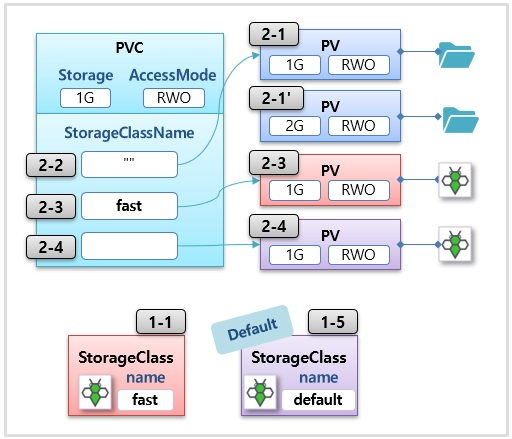
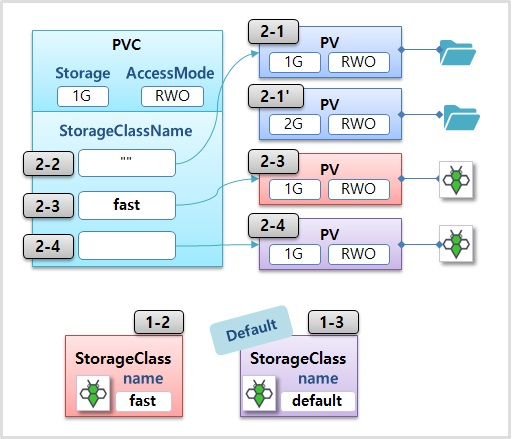
1

diff --git a/css/main.min.eb65ee0dac548aa7f699f2286e6c4195cce40c7bebc7a41d40df6795594ea13a.css b/css/main.min.eb65ee0dac548aa7f699f2286e6c4195cce40c7bebc7a41d40df6795594ea13a.css
@@ -1,0 +1,1 @@
+/*! HTML5 Boilerplate v7.1.0 | MIT License | https://html5boilerplate.com/ */html{color:#222;font-size:1em;line-height:1.4}::-moz-selection{background:#b3d4fc;text-shadow:none}::selection{background:#b3d4fc;text-shadow:none}hr{display:block;height:1px;border:0;border-top:1px solid #ccc;margin:1em 0;padding:0}audio,canvas,iframe,img,svg,video{max-width:100%;vertical-align:middle}fieldset{border:0;margin:0;padding:0}textarea{resize:vertical}.browserupgrade{margin:0.2em 0;background:#ccc;color:#000;padding:0.2em 0}body{background:#ffffff;margin-top:3.5em;max-width:100vw;-ms-overflow-style:scrollbar}*,*:before,*:after{-moz-box-sizing:border-box;-webkit-box-sizing:border-box;box-sizing:border-box}body,input,select,textarea{color:#333333;font-family:"Source Sans Pro", Helvetica, sans-serif;line-height:1.75em}a{border-bottom:dotted 1px rgba(160,160,160,0.65);color:inherit;text-decoration:none;-webkit-transition:color .2s ease, border-bottom-color 0.2s ease;-moz-transition:color .2s ease, border-bottom-color 0.2s ease;-ms-transition:color .2s ease, border-bottom-color 0.2s ease;-o-transition:color .2s ease, border-bottom-color 0.2s ease;transition:color .2s ease, border-bottom-color 0.2s ease}a:before{-webkit-transition:color ease;-moz-transition:color ease;-ms-transition:color ease;-o-transition:color ease;transition:color ease}a:hover{border-bottom-color:transparent;color:#3371e3}h1,h2,h3,h4,h5,h6{color:#3c3b3b;font-family:"Raleway", Helvetica, sans-serif;letter-spacing:0.25em;line-height:1.65;text-transform:capitalize}h1 a,h2 a,h3 a,h4 a,h5 a,h6 a{border-bottom:0}blockquote{border-left:solid 4px rgba(160,160,160,0.3);font-style:italic;margin:0 2em;padding:0.5em 0 0.5em 2em}blockquote p{margin-bottom:0}code{border:solid 1px rgba(160,160,160,0.3);font-family:"Courier New", monospace;font-size:0.9em;margin:0 0.25em;line-height:140%;padding:0.25em 0.65em;overflow-x:auto}code::-webkit-scrollbar{height:.25em}code::-webkit-scrollbar-track{-webkit-box-shadow:inset 0 0 6px rgba(0,0,0,0.3)}code::-webkit-scrollbar-thumb{background-color:darkgrey;outline:1px solid slategrey}pre{display:table;font-family:"Courier New", monospace;font-size:0.9em;table-layout:fixed;width:100%}pre code{display:block;padding:1em 1.5em;overflow-x:auto}hr{border:0;border-bottom:solid 1px rgba(160,160,160,0.3);margin:2em 0}input[type="submit"],input[type="reset"],input[type="button"],.button{background-color:transparent;border:solid 1px rgba(160,160,160,0.3);color:#3c3b3b;cursor:pointer;display:inline-block;font-family:"Raleway", Helvetica, sans-serif;font-size:0.6em;font-weight:800;height:4.8125em;letter-spacing:0.25em;line-height:4.8125em;margin:auto;padding:0 2em;-moz-transition:background-color 0.2s ease, border 0.2s ease, color 0.2s ease;-webkit-transition:background-color 0.2s ease, border 0.2s ease, color 0.2s ease;-ms-transition:background-color 0.2s ease, border 0.2s ease, color 0.2s ease;transition:background-color 0.2s ease, border 0.2s ease, color 0.2s ease;text-align:center;text-transform:uppercase;width:fit-content}input[type="submit"]:hover,input[type="reset"]:hover,input[type="button"]:hover,.button:hover{border:solid 1px #3371e3;color:#3371e3 !important}input[type="submit"]:hover:active,input[type="reset"]:hover:active,input[type="button"]:hover:active,.button:hover:active{background-color:rgba(46,186,174,0.05)}label{color:#3c3b3b;display:block;font-size:0.9em;font-weight:700}input,select,textarea{background:rgba(160,160,160,0.075);border:solid 1px rgba(160,160,160,0.3);outline:0;margin:.25em 0;padding:0 1em;width:100%}input:hover,select:hover,textarea:hover{border-color:#3371e3;-webkit-transition:border-color 0.3s ease-in-out;-moz-transition:border-color 0.3s ease-in-out;-ms-transition:border-color 0.3s ease-in-out;-o-transition:border-color 0.3s ease-in-out;transition:border-color 0.3s ease-in-out}input:focus,input:active,select:focus,select:active,textarea:focus,textarea:active{border:solid 1px #3371e3}input,select{height:2.75em}textarea{height:5em}::-webkit-input-placeholder,:-moz-placeholder,::-moz-placeholder,:-ms-input-placeholder,.formerize-placeholder{color:#aaaaaa;opacity:1.0}table{background-color:#fff;-webkit-box-shadow:0 3px 6px rgba(0,0,0,0.16),0 3px 6px rgba(0,0,0,0.23);-moz-box-shadow:0 3px 6px rgba(0,0,0,0.16),0 3px 6px rgba(0,0,0,0.23);-ms-box-shadow:0 3px 6px rgba(0,0,0,0.16),0 3px 6px rgba(0,0,0,0.23);-o-box-shadow:0 3px 6px rgba(0,0,0,0.16),0 3px 6px rgba(0,0,0,0.23);box-shadow:0 3px 6px rgba(0,0,0,0.16),0 3px 6px rgba(0,0,0,0.23);margin:1em auto;-webkit-transition:all 0.5s ease;-moz-transition:all 0.5s ease;-ms-transition:all 0.5s ease;-o-transition:all 0.5s ease;transition:all 0.5s ease;width:75%}@media (min-width: 768px){table{width:90%}}table>thead{display:none}@media (min-width: 768px){table>thead{background-color:#ececec;display:table-header-group}}table>tbody>tr{border-bottom:1px solid #e0e0e0}@media (min-width: 768px){table>tbody>tr:nth-child(even){background-color:#f4f4f4}table>tbody>tr:hover{background-color:rgba(46,187,170,0.5)}}table>tbody>tr>td{display:block;text-align:right}@media (min-width: 768px){table>tbody>tr>td{display:table-cell;text-align:center}}table>tbody>tr>td[data-header]:before{color:#757575;content:attr(data-header);float:left;font-size:inherit;font-weight:bold}@media (min-width: 768px){table>tbody>tr>td[data-header]:before{display:none}}table>tbody>tr>td:first-child{background-color:#ececec;font-weight:bold;text-align:left}@media (min-width: 768px){table>tbody>tr>td:first-child{background-color:unset;text-align:center}}table>tbody>tr>td:first-child:after{content:"\f078";float:right;font-family:"Font Awesome 5 Free";font-weight:900;text-decoration:inherit;transition:all .3s}@media (min-width: 768px){table>tbody>tr>td:first-child:after{display:none}}table>tbody>tr>td:not(:first-child){border-bottom:1px solid #e0e0e0;opacity:0;position:absolute;-moz-transition:none;-ms-transition:none;-o-transition:none;-webkit-transition:none;transition:none;z-index:-1}@media (min-width: 768px){table>tbody>tr>td:not(:first-child){border:0;opacity:100;position:relative;z-index:0}}table>tbody>tr.active>td:first-child:after{transform:rotateX(180deg)}table>tbody>tr.active>td:not(:first-child){opacity:1;position:relative;-webkit-transition:all 0.3s ease;-moz-transition:all 0.3s ease;-ms-transition:all 0.3s ease;-o-transition:all 0.3s ease;transition:all 0.3s ease;z-index:auto}table>tbody>tr.active>td:last-child{border-bottom:0}table>tfoot{display:none}@media (min-width: 768px){table>tfoot{display:table-footer-group}}table>thead>tr>th,table>tbody>tr>th,table>tfoot>tr>th,table>thead>tr>td,table>tbody>tr>td,table>tfoot>tr>td{border:0;padding:0.5em}.g-recaptcha{margin:-0.25em 0 0.25em 0}.fancybox{background:#fff;-webkit-box-shadow:0 3px 6px rgba(0,0,0,0.16),0 3px 6px rgba(0,0,0,0.23);-moz-box-shadow:0 3px 6px rgba(0,0,0,0.16),0 3px 6px rgba(0,0,0,0.23);-ms-box-shadow:0 3px 6px rgba(0,0,0,0.16),0 3px 6px rgba(0,0,0,0.23);-o-box-shadow:0 3px 6px rgba(0,0,0,0.16),0 3px 6px rgba(0,0,0,0.23);box-shadow:0 3px 6px rgba(0,0,0,0.16),0 3px 6px rgba(0,0,0,0.23);margin:10px auto;max-width:85%;padding:.5em .5em 0 .5em;width:fit-content}.fancybox a{border:0}.fancybox img{max-width:100%}.fancybox .caption{color:#777;font-size:0.8em;font-style:italic;text-align:center}.post-comment{position:relative;margin:2.5em 0;font-size:.8em}.post-comment.post-comment-reply{margin-left:2em}.post-comment.post-comment-reply .post-comment-author::after{font-family:'Font Awesome 5 Free';content:'\f064';margin:0 0.3em;display:inline-block;vertical-align:middle;font-weight:900}.post-comment .post-comment-avatar{float:left;width:3.25em;height:3.25em;margin:0 1em 0 0}.post-comment .post-comment-author-container{margin-bottom:-0.5em}.post-comment .post-comment-author-container .post-comment-author{display:inline-block;margin:0 0 0;font-size:1.25em;line-height:0}.post-comment .post-comment-author-container .post-comment-author a{color:inherit;text-decoration:none}.post-comment .post-comment-timestamp{font-size:.8em}.post-comment .post-comment-timestamp a{color:inherit;text-decoration:none}.post-comment .post-comment-content{margin:1.5em 0 0 4.25em}.post-comment .post-comment-content>figure,.post-comment .post-comment-content>ol,.post-comment .post-comment-content>p,.post-comment .post-comment-content>table,.post-comment .post-comment-content>ul{margin-bottom:1.5em}.post-comment .post-comment-reply-btn-container{margin:1.5em 0 1.5em 4.25em}.post-comment .post-comment-reply-btn-container .post-comment-reply-btn{font-size:.6rem}.post-comment .post-comment-reply-btn-container .post-comment-reply-btn::before{font-family:'Font Awesome 5 Free';content:'\f3e5';margin:0 0.6em 0 0;display:inline-block;vertical-align:middle;font-weight:900}.post-new-comment.loading{opacity:0.5}.post-new-comment .post-reply-notice .post-comment-avatar{width:2em;height:2em;margin:0 .6em}.post-new-comment .post-reply-notice .post-reply-close-btn{margin:0 .5em;padding:unset;border:none;vertical-align:middle}.post-new-comment .post-reply-notice .post-reply-close-btn:hover{border:none}.post-new-comment .post-reply-notice .post-reply-close-btn:after{content:'\2716'}.post-new-comment .post-reply-notice .post-reply-arrow::after{font-family:'Font Awesome 5 Free';content:'\f064';display:inline-block;vertical-align:middle;font-weight:900}.post-new-comment .post-reply-notice .post-reply-name{vertical-align:middle}.post-new-comment .g-recaptcha{margin:0 0 0.25em}.post-new-comment .button{margin:0.25em 0}.button{margin:2.25em 0em;background-color:#333333;border:solid 1px rgba(160,160,160,0.3);color:#ffffff;cursor:pointer;display:inline-block;font-family:"Raleway", Helvetica, sans-serif;font-weight:800;-moz-transition:background-color 0.2s ease, border 0.2s ease, color 0.2s ease;-webkit-transition:background-color 0.2s ease, border 0.2s ease, color 0.2s ease;-ms-transition:background-color 0.2s ease, border 0.2s ease, color 0.2s ease;transition:background-color 0.2s ease, border 0.2s ease, color 0.2s ease;text-align:center;text-transform:uppercase;width:fit-content}.button:hover{border:solid 1px #333333;color:#3371e3 !important}.button:active{background-color:rgba(46,186,174,0.05)}.triangle{-webkit-clip-path:polygon(0 100%, 100% 100%, 50% 0);-moz-clip-path:polygon(0 100%, 100% 100%, 50% 0);-ms-clip-path:polygon(0 100%, 100% 100%, 50% 0);-o-clip-path:polygon(0 100%, 100% 100%, 50% 0);clip-path:polygon(0 100%, 100% 100%, 50% 0)}.trapezoid{-webkit-clip-path:polygon(20% 0%, 80% 0%, 100% 100%, 0% 100%);-moz-clip-path:polygon(20% 0%, 80% 0%, 100% 100%, 0% 100%);-ms-clip-path:polygon(20% 0%, 80% 0%, 100% 100%, 0% 100%);-o-clip-path:polygon(20% 0%, 80% 0%, 100% 100%, 0% 100%);clip-path:polygon(20% 0%, 80% 0%, 100% 100%, 0% 100%)}.parallelogram{-webkit-clip-path:polygon(25% 0%, 100% 0%, 75% 100%, 0% 100%);-moz-clip-path:polygon(25% 0%, 100% 0%, 75% 100%, 0% 100%);-ms-clip-path:polygon(25% 0%, 100% 0%, 75% 100%, 0% 100%);-o-clip-path:polygon(25% 0%, 100% 0%, 75% 100%, 0% 100%);clip-path:polygon(25% 0%, 100% 0%, 75% 100%, 0% 100%)}.rhombus{-webkit-clip-path:polygon(50% 0%, 100% 50%, 50% 100%, 0% 50%);-moz-clip-path:polygon(50% 0%, 100% 50%, 50% 100%, 0% 50%);-ms-clip-path:polygon(50% 0%, 100% 50%, 50% 100%, 0% 50%);-o-clip-path:polygon(50% 0%, 100% 50%, 50% 100%, 0% 50%);clip-path:polygon(50% 0%, 100% 50%, 50% 100%, 0% 50%)}.pentagon{-webkit-clip-path:polygon(50% 0%, 100% 38%, 82% 100%, 18% 100%, 0% 38%);-moz-clip-path:polygon(50% 0%, 100% 38%, 82% 100%, 18% 100%, 0% 38%);-ms-clip-path:polygon(50% 0%, 100% 38%, 82% 100%, 18% 100%, 0% 38%);-o-clip-path:polygon(50% 0%, 100% 38%, 82% 100%, 18% 100%, 0% 38%);clip-path:polygon(50% 0%, 100% 38%, 82% 100%, 18% 100%, 0% 38%)}.hexagon{-webkit-clip-path:polygon(50% 0%, 100% 25%, 100% 75%, 50% 100%, 0% 75%, 0% 25%);-moz-clip-path:polygon(50% 0%, 100% 25%, 100% 75%, 50% 100%, 0% 75%, 0% 25%);-ms-clip-path:polygon(50% 0%, 100% 25%, 100% 75%, 50% 100%, 0% 75%, 0% 25%);-o-clip-path:polygon(50% 0%, 100% 25%, 100% 75%, 50% 100%, 0% 75%, 0% 25%);clip-path:polygon(50% 0%, 100% 25%, 100% 75%, 50% 100%, 0% 75%, 0% 25%)}.heptagon{-webkit-clip-path:polygon(50% 0%, 90% 20%, 100% 60%, 75% 100%, 25% 100%, 0% 60%, 10% 20%);-moz-clip-path:polygon(50% 0%, 90% 20%, 100% 60%, 75% 100%, 25% 100%, 0% 60%, 10% 20%);-ms-clip-path:polygon(50% 0%, 90% 20%, 100% 60%, 75% 100%, 25% 100%, 0% 60%, 10% 20%);-o-clip-path:polygon(50% 0%, 90% 20%, 100% 60%, 75% 100%, 25% 100%, 0% 60%, 10% 20%);clip-path:polygon(50% 0%, 90% 20%, 100% 60%, 75% 100%, 25% 100%, 0% 60%, 10% 20%)}.octagon{-webkit-clip-path:polygon(30% 0%, 70% 0%, 100% 30%, 100% 70%, 70% 100%, 30% 100%, 0% 70%, 0% 30%);-moz-clip-path:polygon(30% 0%, 70% 0%, 100% 30%, 100% 70%, 70% 100%, 30% 100%, 0% 70%, 0% 30%);-ms-clip-path:polygon(30% 0%, 70% 0%, 100% 30%, 100% 70%, 70% 100%, 30% 100%, 0% 70%, 0% 30%);-o-clip-path:polygon(30% 0%, 70% 0%, 100% 30%, 100% 70%, 70% 100%, 30% 100%, 0% 70%, 0% 30%);clip-path:polygon(30% 0%, 70% 0%, 100% 30%, 100% 70%, 70% 100%, 30% 100%, 0% 70%, 0% 30%)}.nonagon{-webkit-clip-path:polygon(50% 0%, 83% 12%, 100% 43%, 94% 78%, 68% 100%, 32% 100%, 6% 78%, 0% 43%, 17% 12%);-moz-clip-path:polygon(50% 0%, 83% 12%, 100% 43%, 94% 78%, 68% 100%, 32% 100%, 6% 78%, 0% 43%, 17% 12%);-ms-clip-path:polygon(50% 0%, 83% 12%, 100% 43%, 94% 78%, 68% 100%, 32% 100%, 6% 78%, 0% 43%, 17% 12%);-o-clip-path:polygon(50% 0%, 83% 12%, 100% 43%, 94% 78%, 68% 100%, 32% 100%, 6% 78%, 0% 43%, 17% 12%);clip-path:polygon(50% 0%, 83% 12%, 100% 43%, 94% 78%, 68% 100%, 32% 100%, 6% 78%, 0% 43%, 17% 12%)}.decagon{-webkit-clip-path:polygon(50% 0%, 80% 10%, 100% 35%, 100% 70%, 80% 90%, 50% 100%, 20% 90%, 0% 70%, 0% 35%, 20% 10%);-moz-clip-path:polygon(50% 0%, 80% 10%, 100% 35%, 100% 70%, 80% 90%, 50% 100%, 20% 90%, 0% 70%, 0% 35%, 20% 10%);-ms-clip-path:polygon(50% 0%, 80% 10%, 100% 35%, 100% 70%, 80% 90%, 50% 100%, 20% 90%, 0% 70%, 0% 35%, 20% 10%);-o-clip-path:polygon(50% 0%, 80% 10%, 100% 35%, 100% 70%, 80% 90%, 50% 100%, 20% 90%, 0% 70%, 0% 35%, 20% 10%);clip-path:polygon(50% 0%, 80% 10%, 100% 35%, 100% 70%, 80% 90%, 50% 100%, 20% 90%, 0% 70%, 0% 35%, 20% 10%)}.bevel{-webkit-clip-path:polygon(20% 0%, 80% 0%, 100% 20%, 100% 80%, 80% 100%, 20% 100%, 0% 80%, 0% 20%);-moz-clip-path:polygon(20% 0%, 80% 0%, 100% 20%, 100% 80%, 80% 100%, 20% 100%, 0% 80%, 0% 20%);-ms-clip-path:polygon(20% 0%, 80% 0%, 100% 20%, 100% 80%, 80% 100%, 20% 100%, 0% 80%, 0% 20%);-o-clip-path:polygon(20% 0%, 80% 0%, 100% 20%, 100% 80%, 80% 100%, 20% 100%, 0% 80%, 0% 20%);clip-path:polygon(20% 0%, 80% 0%, 100% 20%, 100% 80%, 80% 100%, 20% 100%, 0% 80%, 0% 20%)}.rabbet{-webkit-clip-path:polygon(0% 15%, 15% 15%, 15% 0%, 85% 0%, 85% 15%, 100% 15%, 100% 85%, 85% 85%, 85% 100%, 15% 100%, 15% 85%, 0% 85%);-moz-clip-path:polygon(0% 15%, 15% 15%, 15% 0%, 85% 0%, 85% 15%, 100% 15%, 100% 85%, 85% 85%, 85% 100%, 15% 100%, 15% 85%, 0% 85%);-ms-clip-path:polygon(0% 15%, 15% 15%, 15% 0%, 85% 0%, 85% 15%, 100% 15%, 100% 85%, 85% 85%, 85% 100%, 15% 100%, 15% 85%, 0% 85%);-o-clip-path:polygon(0% 15%, 15% 15%, 15% 0%, 85% 0%, 85% 15%, 100% 15%, 100% 85%, 85% 85%, 85% 100%, 15% 100%, 15% 85%, 0% 85%);clip-path:polygon(0% 15%, 15% 15%, 15% 0%, 85% 0%, 85% 15%, 100% 15%, 100% 85%, 85% 85%, 85% 100%, 15% 100%, 15% 85%, 0% 85%)}.left-arrow{-webkit-clip-path:polygon(40% 0%, 40% 20%, 100% 20%, 100% 80%, 40% 80%, 40% 100%, 0% 50%);-moz-clip-path:polygon(40% 0%, 40% 20%, 100% 20%, 100% 80%, 40% 80%, 40% 100%, 0% 50%);-ms-clip-path:polygon(40% 0%, 40% 20%, 100% 20%, 100% 80%, 40% 80%, 40% 100%, 0% 50%);-o-clip-path:polygon(40% 0%, 40% 20%, 100% 20%, 100% 80%, 40% 80%, 40% 100%, 0% 50%);clip-path:polygon(40% 0%, 40% 20%, 100% 20%, 100% 80%, 40% 80%, 40% 100%, 0% 50%)}.right-arrow{-webkit-clip-path:polygon(0% 20%, 60% 20%, 60% 0%, 100% 50%, 60% 100%, 60% 80%, 0% 80%);-moz-clip-path:polygon(0% 20%, 60% 20%, 60% 0%, 100% 50%, 60% 100%, 60% 80%, 0% 80%);-ms-clip-path:polygon(0% 20%, 60% 20%, 60% 0%, 100% 50%, 60% 100%, 60% 80%, 0% 80%);-o-clip-path:polygon(0% 20%, 60% 20%, 60% 0%, 100% 50%, 60% 100%, 60% 80%, 0% 80%);clip-path:polygon(0% 20%, 60% 20%, 60% 0%, 100% 50%, 60% 100%, 60% 80%, 0% 80%)}.left-point{-webkit-clip-path:polygon(25% 0%, 100% 1%, 100% 100%, 25% 100%, 0% 50%);-moz-clip-path:polygon(25% 0%, 100% 1%, 100% 100%, 25% 100%, 0% 50%);-ms-clip-path:polygon(25% 0%, 100% 1%, 100% 100%, 25% 100%, 0% 50%);-o-clip-path:polygon(25% 0%, 100% 1%, 100% 100%, 25% 100%, 0% 50%);clip-path:polygon(25% 0%, 100% 1%, 100% 100%, 25% 100%, 0% 50%)}.right-point{-webkit-clip-path:polygon(0% 0%, 75% 0%, 100% 50%, 75% 100%, 0% 100%);-moz-clip-path:polygon(0% 0%, 75% 0%, 100% 50%, 75% 100%, 0% 100%);-ms-clip-path:polygon(0% 0%, 75% 0%, 100% 50%, 75% 100%, 0% 100%);-o-clip-path:polygon(0% 0%, 75% 0%, 100% 50%, 75% 100%, 0% 100%);clip-path:polygon(0% 0%, 75% 0%, 100% 50%, 75% 100%, 0% 100%)}.left-cheveron{-webkit-clip-path:polygon(100% 0%, 75% 50%, 100% 100%, 25% 100%, 0% 50%, 25% 0%);-moz-clip-path:polygon(100% 0%, 75% 50%, 100% 100%, 25% 100%, 0% 50%, 25% 0%);-ms-clip-path:polygon(100% 0%, 75% 50%, 100% 100%, 25% 100%, 0% 50%, 25% 0%);-o-clip-path:polygon(100% 0%, 75% 50%, 100% 100%, 25% 100%, 0% 50%, 25% 0%);clip-path:polygon(100% 0%, 75% 50%, 100% 100%, 25% 100%, 0% 50%, 25% 0%)}.right-cheveron{-webkit-clip-path:polygon(75% 0%, 100% 50%, 75% 100%, 0% 100%, 25% 50%, 0% 0%);-moz-clip-path:polygon(75% 0%, 100% 50%, 75% 100%, 0% 100%, 25% 50%, 0% 0%);-ms-clip-path:polygon(75% 0%, 100% 50%, 75% 100%, 0% 100%, 25% 50%, 0% 0%);-o-clip-path:polygon(75% 0%, 100% 50%, 75% 100%, 0% 100%, 25% 50%, 0% 0%);clip-path:polygon(75% 0%, 100% 50%, 75% 100%, 0% 100%, 25% 50%, 0% 0%)}.star{-webkit-clip-path:polygon(50% 0%, 61% 35%, 98% 35%, 68% 57%, 79% 91%, 50% 70%, 21% 91%, 32% 57%, 2% 35%, 39% 35%);-moz-clip-path:polygon(50% 0%, 61% 35%, 98% 35%, 68% 57%, 79% 91%, 50% 70%, 21% 91%, 32% 57%, 2% 35%, 39% 35%);-ms-clip-path:polygon(50% 0%, 61% 35%, 98% 35%, 68% 57%, 79% 91%, 50% 70%, 21% 91%, 32% 57%, 2% 35%, 39% 35%);-o-clip-path:polygon(50% 0%, 61% 35%, 98% 35%, 68% 57%, 79% 91%, 50% 70%, 21% 91%, 32% 57%, 2% 35%, 39% 35%);clip-path:polygon(50% 0%, 61% 35%, 98% 35%, 68% 57%, 79% 91%, 50% 70%, 21% 91%, 32% 57%, 2% 35%, 39% 35%)}.cross{-webkit-clip-path:polygon(10% 25%, 35% 25%, 35% 0%, 65% 0%, 65% 25%, 90% 25%, 90% 50%, 65% 50%, 65% 100%, 35% 100%, 35% 50%, 10% 50%);-moz-clip-path:polygon(10% 25%, 35% 25%, 35% 0%, 65% 0%, 65% 25%, 90% 25%, 90% 50%, 65% 50%, 65% 100%, 35% 100%, 35% 50%, 10% 50%);-ms-clip-path:polygon(10% 25%, 35% 25%, 35% 0%, 65% 0%, 65% 25%, 90% 25%, 90% 50%, 65% 50%, 65% 100%, 35% 100%, 35% 50%, 10% 50%);-o-clip-path:polygon(10% 25%, 35% 25%, 35% 0%, 65% 0%, 65% 25%, 90% 25%, 90% 50%, 65% 50%, 65% 100%, 35% 100%, 35% 50%, 10% 50%);clip-path:polygon(10% 25%, 35% 25%, 35% 0%, 65% 0%, 65% 25%, 90% 25%, 90% 50%, 65% 50%, 65% 100%, 35% 100%, 35% 50%, 10% 50%)}.message{-webkit-clip-path:polygon(0% 0%, 100% 0%, 100% 75%, 75% 75%, 75% 100%, 50% 75%, 0% 75%);-moz-clip-path:polygon(0% 0%, 100% 0%, 100% 75%, 75% 75%, 75% 100%, 50% 75%, 0% 75%);-ms-clip-path:polygon(0% 0%, 100% 0%, 100% 75%, 75% 75%, 75% 100%, 50% 75%, 0% 75%);-o-clip-path:polygon(0% 0%, 100% 0%, 100% 75%, 75% 75%, 75% 100%, 50% 75%, 0% 75%);clip-path:polygon(0% 0%, 100% 0%, 100% 75%, 75% 75%, 75% 100%, 50% 75%, 0% 75%)}.close{-webkit-clip-path:polygon(20% 0%, 0% 20%, 30% 50%, 0% 80%, 20% 100%, 50% 70%, 80% 100%, 100% 80%, 70% 50%, 100% 20%, 80% 0%, 50% 30%);-moz-clip-path:polygon(20% 0%, 0% 20%, 30% 50%, 0% 80%, 20% 100%, 50% 70%, 80% 100%, 100% 80%, 70% 50%, 100% 20%, 80% 0%, 50% 30%);-ms-clip-path:polygon(20% 0%, 0% 20%, 30% 50%, 0% 80%, 20% 100%, 50% 70%, 80% 100%, 100% 80%, 70% 50%, 100% 20%, 80% 0%, 50% 30%);-o-clip-path:polygon(20% 0%, 0% 20%, 30% 50%, 0% 80%, 20% 100%, 50% 70%, 80% 100%, 100% 80%, 70% 50%, 100% 20%, 80% 0%, 50% 30%);clip-path:polygon(20% 0%, 0% 20%, 30% 50%, 0% 80%, 20% 100%, 50% 70%, 80% 100%, 100% 80%, 70% 50%, 100% 20%, 80% 0%, 50% 30%)}.circle{-webkit-clip-path:circle(50% at 50% 50%);-moz-clip-path:circle(50% at 50% 50%);-ms-clip-path:circle(50% at 50% 50%);-o-clip-path:circle(50% at 50% 50%);clip-path:circle(50% at 50% 50%)}.vertical-ellipse{-webkit-clip-path:ellipse(25% 40% at 50% 50%);-moz-clip-path:ellipse(25% 40% at 50% 50%);-ms-clip-path:ellipse(25% 40% at 50% 50%);-o-clip-path:ellipse(25% 40% at 50% 50%);clip-path:ellipse(25% 40% at 50% 50%)}.horizontal-ellipse{-webkit-clip-path:ellipse(40% 25% at 50% 50%);-moz-clip-path:ellipse(40% 25% at 50% 50%);-ms-clip-path:ellipse(40% 25% at 50% 50%);-o-clip-path:ellipse(40% 25% at 50% 50%);clip-path:ellipse(40% 25% at 50% 50%)}.share-btn{border:none;border-radius:4px;box-shadow:0 2px 0 0 rgba(0,0,0,0.2);color:#ffffff;display:inline-block;text-align:center}.share-btn:hover{color:#ffffff !important}.share-btn:active{position:relative;top:2px;box-shadow:none;color:#e2e2e2;outline:none}.share-btn.twitter{background:#55acee}.share-btn.twitter:hover{background:#4c9ad6}.share-btn.google-plus{background:#dd4b39}.share-btn.google-plus:hover{background:#c64333}.share-btn.facebook{background:#3B5998}.share-btn.facebook:hover{background:#2f4779}.share-btn.linkedin{background:#4875B4}.share-btn.linkedin:hover{background:#4069a2}.share-btn.stumbleupon{background:#EB4823}.share-btn.stumbleupon:hover{background:#d3401f}.share-btn.pinterest{background:#BD081C}.share-btn.pinterest:hover{background:#AD0000}.share-btn.reddit{background:#ff5700}.share-btn.reddit:hover{background:#e54e00}.share-btn.email{background:#444444}.share-btn.email:hover{background:#363636}#site-intro{grid-area:intro}#site-sidebar{grid-area:sidebar}#site-main{grid-area:main}#site-footer{grid-area:footer}#wrapper{display:grid;grid-template-areas:'intro' 'main' 'sidebar' 'footer';grid-template-rows:auto 1fr auto auto;margin:0 auto;max-width:90em;min-height:100vh;-moz-transition:.5s;-ms-transition:.5s;-o-transition:.5s;-webkit-transition:.5s;transition:.5s}@media (min-width: 1024px){#wrapper{grid-template-areas:'intro main' 'sidebar main' 'footer main' 'blank main';grid-template-columns:22em 1fr;grid-template-rows:auto auto auto 1fr;padding:0 2.5em}}#wrapper.overlay{opacity:.25}.post{background:#ffffff;margin:1.5em auto;padding:1em;max-width:55em}.post>header{border-bottom:solid 1px rgba(160,160,160,0.3);background-color:#A6A6A6;margin:1em 0em 0 0em;text-align:center;word-break:break-all}@media (min-width: 768px){.post>header{display:flex;justify-content:space-between;text-align:left}}.post>header div{padding:0 0 1em 0}@media (min-width: 768px){.post>header div{padding:2em 1em}}.post>header p{margin:-1em 0 0 0}.post>header .title{font-size:1.1em;background-color:#A6A6A6;width:100%}@media (min-width: 768px){.post>header .title{width:75%}}.post>header .meta{background-color:#D5D5D5;display:flex;flex-direction:column;width:100%}@media (min-width: 768px){.post>header .meta{border-left:solid 1px rgba(160,160,160,0.3);text-align:right;width:25%}}.post>header .meta .published{font-family:"Raleway", Helvetica, sans-serif;font-size:0.7em;font-weight:800;letter-spacing:0.25em;text-transform:uppercase}.post>header .meta p,.post>header .meta .author,.post>header .meta .format{font-family:"Raleway", Helvetica, sans-serif;font-size:0.6em;letter-spacing:0.25em;text-transform:uppercase}@media (min-width: 1024px){.post>div,.post>p{margin:0 1em}}@media (min-width: 1440px){.post>div,.post>p{margin:0 4em}}.post>div>p,.post>p{text-align:justify}.post a.image{border:0;display:block;margin:1em 0em;overflow:hidden}.post a.image:hover img{-webkit-transform:scale(1.05);-moz-transform:scale(1.05);-ms-transform:scale(1.05);-o-transform:scale(1.05);transform:scale(1.05)}.post a.image img{-webkit-transition:-webkit-transform 0.2s ease-out;-moz-transition:-moz-transform 0.2s ease-out;-ms-transition:-ms-transform 0.2s ease-out;-o-transition:-ms-transform 0.2s ease-out;transition:transform 0.2s ease-out;width:100%}.post>footer{display:flex;flex-direction:column}.post>footer .stats{display:flex;cursor:default;justify-content:space-around;list-style:none;margin:.5em 0;padding:0}.post>footer .stats li{display:flex;align-items:center;font-family:"Font Awesome 5 Free";font-weight:900;max-width:50%}.post>footer .stats li:hover ul li,.post>footer .stats li:active ul li{visibility:visible;opacity:1;line-height:1;margin:1em;width:auto}.post>footer .stats li.categories:before{content:"\f07b";width:20px}.post>footer .stats li.tags:before{content:"\f02c";width:20px}.post>footer .stats li ul{display:flex;flex-wrap:wrap;border-left:solid 1px rgba(160,160,160,0.3);margin:0 0 0 1em;padding:0 0 0 1em}.post>footer .stats li ul li{visibility:visible;font-family:"Raleway", Helvetica, sans-serif;font-size:0.6em;font-weight:400;letter-spacing:0.25em;line-height:0;margin:0;width:0;opacity:0;-webkit-transition:visibility 0s, opacity 0.5s linear, line-height 0.5s linear, margin 0.5s linear, width 0.5s linear;-moz-transition:visibility 0s, opacity 0.5s linear, line-height 0.5s linear, margin 0.5s linear, width 0.5s linear;-ms-transition:visibility 0s, opacity 0.5s linear, line-height 0.5s linear, margin 0.5s linear, width 0.5s linear;-o-transition:visibility 0s, opacity 0.5s linear, line-height 0.5s linear, margin 0.5s linear, width 0.5s linear;transition:visibility 0s, opacity 0.5s linear, line-height 0.5s linear, margin 0.5s linear, width 0.5s linear;text-transform:uppercase}.post>footer .stats li ul li:nth-child(-n+3){visibility:visible;opacity:1;width:auto;line-height:1;margin:1em}.post>footer .stats li ul li a{overflow:hidden;text-overflow:ellipsis;white-space:nowrap}.pagination{display:flex;justify-content:space-around;align-items:center;margin:1.5em auto;padding:1em;max-width:55em}.pagination .button{margin:1em;width:50%;background-color:#333333}.pagination .button .previous div,.pagination .button .next div{display:none}@media (min-width: 425px){.pagination .button .previous div,.pagination .button .next div{display:block;overflow:hidden;text-overflow:ellipsis;white-space:nowrap}}.pagination .button .previous::before,.pagination .button .next::before{font-family:"Font Awesome 5 Free";font-weight:900;text-decoration:inherit}.pagination .button .previous::before{content:"\f053";float:left;padding-right:.5em}.pagination .button .next::before{content:"\f054";float:right;padding-right:.5em}#site-header{background-color:#ffffff;border-bottom:solid 1px rgba(160,160,160,0.3);-webkit-box-shadow:0 3px 6px rgba(0,0,0,0.19),0 3px 6px rgba(0,0,0,0.23);-moz-box-shadow:0 3px 6px rgba(0,0,0,0.19),0 3px 6px rgba(0,0,0,0.23);-ms-box-shadow:0 3px 6px rgba(0,0,0,0.19),0 3px 6px rgba(0,0,0,0.23);-o-box-shadow:0 3px 6px rgba(0,0,0,0.19),0 3px 6px rgba(0,0,0,0.23);box-shadow:0 3px 6px rgba(0,0,0,0.19),0 3px 6px rgba(0,0,0,0.23);height:3.5em;line-height:3.5em;position:fixed;margin-bottom:3.5em;top:0;width:100%;z-index:10000}#site-header a{border:0;border-left:1px solid rgba(160,160,160,0.3);font-family:"Raleway", Helvetica, sans-serif;font-size:0.7em;font-weight:400;letter-spacing:0.25em;margin:0;padding:0 1.5em;text-transform:uppercase}#site-header .flyout-menu{background-color:#303030;border-left:1px solid rgba(160,160,160,0.3);height:100%;margin-top:3.5em;padding:0;position:fixed;top:0;-webkit-transition:0.5s;-moz-transition:0.5s;-ms-transition:0.5s;-o-transition:0.5s;transition:0.5s;z-index:20}#site-header .flyout-menu.active{-webkit-box-shadow:0 3px 6px rgba(0,0,0,0.19),0 3px 6px rgba(0,0,0,0.23);-moz-box-shadow:0 3px 6px rgba(0,0,0,0.19),0 3px 6px rgba(0,0,0,0.23);-ms-box-shadow:0 3px 6px rgba(0,0,0,0.19),0 3px 6px rgba(0,0,0,0.23);-o-box-shadow:0 3px 6px rgba(0,0,0,0.19),0 3px 6px rgba(0,0,0,0.23);box-shadow:0 3px 6px rgba(0,0,0,0.19),0 3px 6px rgba(0,0,0,0.23);right:0 !important}#site-header .flyout-menu.active a{border-left:0}#site-header .flyout-menu h1{font-size:1em}#site-nav{align-items:center;display:flex;justify-content:space-between;background-color:#454545}#site-nav .flyout-menu{right:-177px;width:177px}@media (min-width: 1024px){#site-nav .flyout-menu{background-color:unset;border:none;flex-grow:1;height:auto;margin:0;overflow:auto;position:static;-webkit-transition:none;-moz-transition:none;-ms-transition:none;-o-transition:none;transition:none;white-space:nowrap}#site-nav .flyout-menu::-webkit-scrollbar{height:.25em}#site-nav .flyout-menu::-webkit-scrollbar-track{-webkit-box-shadow:inset 0 0 6px rgba(0,0,0,0.3)}#site-nav .flyout-menu::-webkit-scrollbar-thumb{background-color:darkgrey;outline:1px solid slategrey}}#site-nav .flyout-menu.active{flex-wrap:wrap}@media (min-width: 1024px){#site-nav .flyout-menu.active{-webkit-box-shadow:none;-moz-box-shadow:none;-ms-box-shadow:none;-o-box-shadow:none;box-shadow:none}}#site-nav .flyout-menu .search-toggle{display:block;flex-basis:100%;order:1}#site-nav .flyout-menu .link{border-bottom:dotted 1px rgba(160,160,160,0.3);display:block;flex-basis:100%;order:2;font-size:0.8em;font-weight:800;color:white}#site-nav .flyout-menu .link:hover{color:#3371e3}@media (min-width: 1024px){#site-nav .flyout-menu .link{border-bottom:none;display:inline;order:0}#site-nav .flyout-menu .link:first-of-type{border:0}}#site-nav .flyout-menu .share-toggle{display:block;flex-basis:100%;order:3}@media (min-width: 768px){#site-nav .flyout-menu .share-toggle{display:none}}#site-nav .nav-title{align-items:center;display:flex;flex-grow:1;margin:0;color:white;background-color:#303030}#site-nav .nav-title a{border:0;text-transform:capitalize;font-size:0.6em;font-weight:700;margin-left:1.5em;opacity:1;padding:0}#site-nav .nav-title a:hover{color:#3371e3}#site-nav .nav-title a img{height:4.8em;width:12.6em}@media (min-width: 1024px){#site-nav .nav-title{flex-grow:0}#site-nav .nav-title:after{background:white;content:'';display:block;height:56px;margin-left:1.5em;width:1px}#site-nav .nav-title a{min-width:12.5em}#site-nav .nav-title a img{margin-top:-0.2em}}#site-nav>.share-toggle,#site-nav>.search-toggle{display:none}@media (min-width: 425px){#site-nav>.share-toggle,#site-nav>.search-toggle{display:block;text-align:center;width:61px}#site-nav>.share-toggle i,#site-nav>.search-toggle i{vertical-align:middle}}#site-nav .lang-toggle:hover span{box-shadow:inset 0 0 0 100px rgba(46,187,170,0.5)}#site-nav .lang-toggle span{display:inline-block;font-size:1.75em;-webkit-transition:box-shadow 0.2s ease;-moz-transition:box-shadow 0.2s ease;-ms-transition:box-shadow 0.2s ease;-o-transition:box-shadow 0.2s ease;transition:box-shadow 0.2s ease;vertical-align:middle}#site-nav .nav-toggle{text-align:center;width:61px}@media (min-width: 1024px){#site-nav .nav-toggle{display:none}}#site-nav .nav-toggle i{vertical-align:middle}#lang-menu.flyout-menu{right:-177px;width:177px}#lang-menu.flyout-menu a{border-left:0}#lang-menu.flyout-menu ul{list-style-type:none;padding:0;margin:0}#lang-menu.flyout-menu span{display:inline-block;font-size:1.75em;-webkit-transition:box-shadow 0.2s ease;-moz-transition:box-shadow 0.2s ease;-ms-transition:box-shadow 0.2s ease;-o-transition:box-shadow 0.2s ease;transition:box-shadow 0.2s ease;vertical-align:middle}#lang-menu.flyout-menu span:hover{box-shadow:inset 0 0 0 100px rgba(46,187,170,0.5)}#lang-menu.flyout-menu .link{border-bottom:dotted 1px rgba(160,160,160,0.3);display:block}#lang-menu.flyout-menu .no-lang{cursor:not-allowed;opacity:.25}#lang-menu.flyout-menu .no-lang span:hover{box-shadow:none}#share-menu{display:flex;flex-direction:column;justify-content:space-between;text-align:center}@media (min-height: 600px){#share-menu{justify-content:flex-start}}#share-menu.flyout-menu{width:177px;right:-177px;padding:1em}#share-menu.flyout-menu h1,#share-menu.flyout-menu a{margin:0 .25em}@media (min-height: 600px){#share-menu.flyout-menu h1,#share-menu.flyout-menu a{margin:0 .25em .75em 0}}#share-menu.flyout-menu a p{visibility:hidden}#share-menu.flyout-menu .share-btn{height:50px}#share-menu.flyout-menu .share-btn i{font-size:1.5em}#site-intro{align-items:center;display:flex;flex-direction:column;margin-top:0.5em;padding:1em;text-align:center}#site-intro a{border:0}#site-intro p{opacity:0.6}#site-intro header h1{font-size:1.25em;margin-bottom:0}#site-intro main p{font-size:.7em;letter-spacing:.25em;line-height:2.5;margin-bottom:0;text-transform:uppercase}#site-sidebar header h1{font-size:1em}#site-sidebar>*{border-top:solid 1px rgba(160,160,160,0.3);margin:3em 2em 0 2em;padding-top:3em}@media (min-width: 1024px){#site-sidebar>*:first-child{margin-top:0}}#recent-posts{display:flex;flex-wrap:wrap;justify-content:space-between}#recent-posts>header{flex:1 1 100%}#recent-posts .mini-post{background:#ffffff;border:solid 1px rgba(160,160,160,0.3);display:flex;flex-direction:column;margin-bottom:1em;width:100%}@media (min-width: 768px){#recent-posts .mini-post{width:49%}}@media (min-width: 1024px){#recent-posts .mini-post{width:100%}}#recent-posts .mini-post header{min-height:4em;padding:1.25em 1.25em 0.1em 1.25em;position:relative}@media (min-width: 768px){#recent-posts .mini-post header{border-top:solid 1px rgba(160,160,160,0.3)}}@media (min-width: 1024px){#recent-posts .mini-post header{border:0}}#recent-posts .mini-post header h1{font-size:0.7em}#recent-posts .mini-post header .published{display:block;font-family:"Raleway", Helvetica, sans-serif;font-size:0.6em;font-weight:400;letter-spacing:0.25em;margin:-0.625em 0 1.7em 0;text-transform:uppercase}#recent-posts .mini-post header .author,#recent-posts .mini-post header .format{position:absolute;right:2em;top:2em}#recent-posts .mini-post section{flex-grow:1;overflow:hidden}#recent-posts .mini-post section .image:hover img{-moz-transform:scale(1.05);-webkit-transform:scale(1.05);-ms-transform:scale(1.05);transform:scale(1.05)}#recent-posts .mini-post section .image img{display:block;height:100%;margin:0;-moz-transition:-moz-transform 0.2s ease-out;-webkit-transition:-webkit-transform 0.2s ease-out;-ms-transition:-ms-transform 0.2s ease-out;transition:transform 0.2s ease-out;width:100%}#categories .count{float:right}#mini-bio p{opacity:0.65;font-size:0.9em;padding:0}#mini-bio footer{text-align:center}#site-footer{border-top:solid 1px rgba(160,160,160,0.3);margin:3em 2em 0 2em;padding-top:3em}#site-footer .copyright{color:#aaaaaa;font-family:"Raleway", Helvetica, sans-serif;font-size:0.5em;font-weight:400;letter-spacing:0.25em;text-align:center;text-transform:uppercase}#back-to-top{bottom:15px;color:#aaaaaa;display:none;position:fixed;right:15px;border:0}#site-intro .socnet-icons,#site-footer .socnet-icons{display:flex;flex-wrap:wrap;justify-content:center;padding-left:0}#site-intro .socnet-icons li,#site-footer .socnet-icons li{margin:0 .5em;min-width:20px;list-style-type:none}#site-intro .socnet-icons li a,#site-footer .socnet-icons li a{opacity:0.6;border:none}#socnet-share{display:flex;flex-wrap:wrap;justify-content:space-between;margin:1em 1em 0 1em}@media (min-width: 768px){#socnet-share{justify-content:flex-start}}#socnet-share a{margin-bottom:.5em;padding:.5em;width:4em}@media (min-width: 768px){#socnet-share a{margin-right:.25em}}#socnet-share a i{font-size:1em}#socnet-share p{display:none}.hidden{display:none !important}.visuallyhidden{border:0;clip:rect(0 0 0 0);height:1px;margin:-1px;overflow:hidden;padding:0;position:absolute;width:1px;white-space:nowrap}.visuallyhidden.focusable:active,.visuallyhidden.focusable:focus{clip:auto;height:auto;margin:0;overflow:visible;position:static;width:auto;white-space:inherit}.invisible{visibility:hidden}.clearfix:before,.clearfix:after{content:" ";display:table}.clearfix:after{clear:both}@media print{*,*:before,*:after{background:transparent !important;color:#000 !important;-webkit-box-shadow:none !important;box-shadow:none !important;text-shadow:none !important}a,a:visited{text-decoration:underline}a[href]:after{content:" (" attr(href) ")"}abbr[title]:after{content:" (" attr(title) ")"}a[href^="#"]:after,a[href^="javascript:"]:after{content:""}pre{white-space:pre-wrap !important}pre,blockquote{border:1px solid #999;page-break-inside:avoid}thead{display:table-header-group}tr,img{page-break-inside:avoid}p,h2,h3{orphans:3;widows:3}h2,h3{page-break-after:avoid}}

diff --git a/practice/intermediate/object-volume/index.html b/practice/intermediate/object-volume/index.html
@@ -26,7 +26,7 @@
 
 <meta itemprop="datePublished" content="2019-11-21T00:00:00&#43;00:00" />
 <meta itemprop="dateModified" content="2019-11-21T00:00:00&#43;00:00" />
-<meta itemprop="wordCount" content="568">
+<meta itemprop="wordCount" content="561">
 
 
 
@@ -56,7 +56,7 @@
       <link rel="stylesheet" href="https://cdnjs.cloudflare.com/ajax/libs/fancybox/3.3.5/jquery.fancybox.min.css" />
       
       
-      <link rel="stylesheet" href="/css/main.min.27b618377603ce5859ee8c77a8f18977d019e93b79d4f1864f18fe5c06b8903a.css" integrity="sha256-J7YYN3YDzlhZ7ox3qPGJd9AZ6Tt51PGGTxj&#43;XAa4kDo=">
+      <link rel="stylesheet" href="/css/main.min.eb65ee0dac548aa7f699f2286e6c4195cce40c7bebc7a41d40df6795594ea13a.css" integrity="sha256-62XuDaxUiqf2mfIobmxBlczkDHvrx6QdQN9nlVlOoTo=">
       <link rel="stylesheet" href="/css/add-on.css">
     
   
@@ -282,11 +282,16 @@
 
 
 
-<h3 id="1-1-storageos-설치">1-1) StorageOS 설치</h3>
+<h3 id="1-1-storageos-operator-설치">1-1) StorageOS Operator 설치</h3>
 
 <p>설치</p>
 
 <pre><code class="language-sh">kubectl apply -f https://github.com/storageos/cluster-operator/releases/download/1.5.0/storageos-operator.yaml
+</code></pre>
+
+<p>설치 확인</p>
+
+<pre><code class="language-sh">kubectl get all -n storageos-operator
 </code></pre>
 
 <p>Depolyment 수정</p>
@@ -307,31 +312,13 @@
     imagePullPolicy: IfNotPresent
 </code></pre>
 
-<p>Service 수정</p>
+<p>관리 계정을 위한 Secret 생성 (username 및 password를 Base64문자로 만들기)</p>
 
-<pre><code class="language-sh">kubectl edit service storageos -n storageos
+<pre><code class="language-sh">echo -n &quot;admin&quot; | base64
+echo -n &quot;1234&quot; | base64
 </code></pre>
 
-<p>spec에  <code>externalIPs</code>와 Master IP 추가</p>
-
-<pre><code class="language-yaml">spec:
-  clusterIP: 10.109.77.121
-  externalIPs:     # 추가
-  - 192.168.0.30   # Master IP 추가
-  ports:
-</code></pre>
-
-<p><br/></p>
-
-<h3 id="1-2-storageos-계정을-위한-secret-생성">1-2) StorageOS 계정을 위한 Secret 생성</h3>
-
-<p>username 및 password을 Base64문자로 만들기 - <code>username</code>과 <code>password</code>는 각자 설정</p>
-
-<pre><code class="language-sh">echo -n &quot;username&quot; | base64
-echo -n &quot;password&quot; | base64
-</code></pre>
-
-<p>아래 yaml 파일 안에  <code>apiUsername</code> 및 <code>apiPassword</code> 부분에 위 결과로 나온 Base64인코딩된 username <code>dXNlcm5hbWU=</code>과 password <code>cGFzc3dvcmQ=</code>넣기</p>
+<p><code>apiUsername</code> 및 <code>apiPassword</code> 부분에 위 결과로 나온 문자 넣기</p>
 
 <pre><code class="language-yaml">kubectl create -f - &lt;&lt;END
 apiVersion: v1
@@ -343,14 +330,16 @@ metadata:
     app: &quot;storageos&quot;
 type: &quot;kubernetes.io/storageos&quot;
 data:
-  apiUsername: dXNlcm5hbWU=
-  apiPassword: cGFzc3dvcmQ=
+  apiUsername: YWRtaW4=  # admin
+  apiPassword: MTIzNA==  # 1234
 END
 </code></pre>
 
 <p><br/></p>
 
-<h3 id="1-3-storageos-트리거-생성">1-3) StorageOS 트리거 생성</h3>
+<h3 id="1-2-storageos-설치">1-2) StorageOS 설치</h3>
+
+<p>StorageOS 설치 트리거 생성</p>
 
 <pre><code class="language-sh">kubectl apply -f - &lt;&lt;END
 apiVersion: &quot;storageos.com/v1&quot;
@@ -370,26 +359,35 @@ spec:
 END
 </code></pre>
 
-<p><br/></p>
+<p>설치 확인</p>
 
-<h3 id="1-4-설치-확인">1-4) 설치 확인</h3>
-
-<p>Pod 상태 Running 확인</p>
-
-<pre><code class="language-sh">kubectl -n storageos get pods
+<pre><code class="language-sh">kubectl get all -n storageos
 </code></pre>
 
-<pre><code class="language-sh">NAME                                 READY   STATUS            RESTARTS   AGE
-storageos-daemonset-rlvml            1/1     Running           0          137s
-storageos-daemonset-z4fdw            1/1     Running           0          137s
-storageos-scheduler-f7566b58-kw49s   1/1     Running           0          137s
+<p>Dashboard 접속을 위한 Service 수정</p>
+
+<pre><code class="language-sh">kubectl edit service storageos -n storageos
+</code></pre>
+
+<p>spec에  <code>externalIPs</code>와 Master IP 추가</p>
+
+<pre><code class="language-yaml">spec:
+  clusterIP: 10.109.77.121
+  externalIPs:     # 추가
+  - 192.168.0.30   # Master IP 추가
+  ports:
+</code></pre>
+
+<p>접속</p>
+
+<pre><code>http://192.168.0.30:5705/
 </code></pre>
 
 <p><br/></p>
 
-<h3 id="1-5-default-storageclass-추가">1-5) Default StorageClass 추가</h3>
+<h3 id="1-3-default-storageclass-추가">1-3) Default StorageClass 추가</h3>
 
-<pre><code class="language-sh">kubectl create -f - &lt;&lt;END
+<pre><code class="language-sh">kubectl apply -f - &lt;&lt;END
 apiVersion: storage.k8s.io/v1
 kind: StorageClass
 metadata:
@@ -692,6 +690,11 @@ parameters:
 <h2 id="kubectl">kubectl</h2>
 
 <hr />
+
+<h3 id="get-all-objects-in-namespaces">* <strong>Get All Objects in Namespaces</strong></h3>
+
+<pre><code class="language-sh">kubectl get all -n storageos-operator
+</code></pre>
 
 <h3 id="force-deletion">* <strong>Force Deletion</strong></h3>
 

diff --git a/categories/index.html b/categories/index.html
@@ -48,7 +48,7 @@
       <link rel="stylesheet" href="https://cdnjs.cloudflare.com/ajax/libs/fancybox/3.3.5/jquery.fancybox.min.css" />
       
       
-      <link rel="stylesheet" href="/css/main.min.27b618377603ce5859ee8c77a8f18977d019e93b79d4f1864f18fe5c06b8903a.css" integrity="sha256-J7YYN3YDzlhZ7ox3qPGJd9AZ6Tt51PGGTxj&#43;XAa4kDo=">
+      <link rel="stylesheet" href="/css/main.min.eb65ee0dac548aa7f699f2286e6c4195cce40c7bebc7a41d40df6795594ea13a.css" integrity="sha256-62XuDaxUiqf2mfIobmxBlczkDHvrx6QdQN9nlVlOoTo=">
       <link rel="stylesheet" href="/css/add-on.css">
     
   

diff --git a/categories/강좌-계획/index.html b/categories/강좌-계획/index.html
@@ -48,7 +48,7 @@
       <link rel="stylesheet" href="https://cdnjs.cloudflare.com/ajax/libs/fancybox/3.3.5/jquery.fancybox.min.css" />
       
       
-      <link rel="stylesheet" href="/css/main.min.27b618377603ce5859ee8c77a8f18977d019e93b79d4f1864f18fe5c06b8903a.css" integrity="sha256-J7YYN3YDzlhZ7ox3qPGJd9AZ6Tt51PGGTxj&#43;XAa4kDo=">
+      <link rel="stylesheet" href="/css/main.min.eb65ee0dac548aa7f699f2286e6c4195cce40c7bebc7a41d40df6795594ea13a.css" integrity="sha256-62XuDaxUiqf2mfIobmxBlczkDHvrx6QdQN9nlVlOoTo=">
       <link rel="stylesheet" href="/css/add-on.css">
     
   

diff --git a/categories/인프런-중급편-강의자료/index.html b/categories/인프런-중급편-강의자료/index.html
@@ -48,7 +48,7 @@
       <link rel="stylesheet" href="https://cdnjs.cloudflare.com/ajax/libs/fancybox/3.3.5/jquery.fancybox.min.css" />
       
       
-      <link rel="stylesheet" href="/css/main.min.27b618377603ce5859ee8c77a8f18977d019e93b79d4f1864f18fe5c06b8903a.css" integrity="sha256-J7YYN3YDzlhZ7ox3qPGJd9AZ6Tt51PGGTxj&#43;XAa4kDo=">
+      <link rel="stylesheet" href="/css/main.min.eb65ee0dac548aa7f699f2286e6c4195cce40c7bebc7a41d40df6795594ea13a.css" integrity="sha256-62XuDaxUiqf2mfIobmxBlczkDHvrx6QdQN9nlVlOoTo=">
       <link rel="stylesheet" href="/css/add-on.css">
     
   

diff --git a/categories/인프런-초급편-강의자료/index.html b/categories/인프런-초급편-강의자료/index.html
@@ -48,7 +48,7 @@
       <link rel="stylesheet" href="https://cdnjs.cloudflare.com/ajax/libs/fancybox/3.3.5/jquery.fancybox.min.css" />
       
       
-      <link rel="stylesheet" href="/css/main.min.27b618377603ce5859ee8c77a8f18977d019e93b79d4f1864f18fe5c06b8903a.css" integrity="sha256-J7YYN3YDzlhZ7ox3qPGJd9AZ6Tt51PGGTxj&#43;XAa4kDo=">
+      <link rel="stylesheet" href="/css/main.min.eb65ee0dac548aa7f699f2286e6c4195cce40c7bebc7a41d40df6795594ea13a.css" integrity="sha256-62XuDaxUiqf2mfIobmxBlczkDHvrx6QdQN9nlVlOoTo=">
       <link rel="stylesheet" href="/css/add-on.css">
     
   

diff --git a/categories/인프런-초급편-강의자료/page/2/index.html b/categories/인프런-초급편-강의자료/page/2/index.html
@@ -48,7 +48,7 @@
       <link rel="stylesheet" href="https://cdnjs.cloudflare.com/ajax/libs/fancybox/3.3.5/jquery.fancybox.min.css" />
       
       
-      <link rel="stylesheet" href="/css/main.min.27b618377603ce5859ee8c77a8f18977d019e93b79d4f1864f18fe5c06b8903a.css" integrity="sha256-J7YYN3YDzlhZ7ox3qPGJd9AZ6Tt51PGGTxj&#43;XAa4kDo=">
+      <link rel="stylesheet" href="/css/main.min.eb65ee0dac548aa7f699f2286e6c4195cce40c7bebc7a41d40df6795594ea13a.css" integrity="sha256-62XuDaxUiqf2mfIobmxBlczkDHvrx6QdQN9nlVlOoTo=">
       <link rel="stylesheet" href="/css/add-on.css">
     
   

diff --git a/categories/인프런-초급편-강의자료/page/3/index.html b/categories/인프런-초급편-강의자료/page/3/index.html
@@ -48,7 +48,7 @@
       <link rel="stylesheet" href="https://cdnjs.cloudflare.com/ajax/libs/fancybox/3.3.5/jquery.fancybox.min.css" />
       
       
-      <link rel="stylesheet" href="/css/main.min.27b618377603ce5859ee8c77a8f18977d019e93b79d4f1864f18fe5c06b8903a.css" integrity="sha256-J7YYN3YDzlhZ7ox3qPGJd9AZ6Tt51PGGTxj&#43;XAa4kDo=">
+      <link rel="stylesheet" href="/css/main.min.eb65ee0dac548aa7f699f2286e6c4195cce40c7bebc7a41d40df6795594ea13a.css" integrity="sha256-62XuDaxUiqf2mfIobmxBlczkDHvrx6QdQN9nlVlOoTo=">
       <link rel="stylesheet" href="/css/add-on.css">
     
   

diff --git a/categories/인프런-초급편-강의자료/page/4/index.html b/categories/인프런-초급편-강의자료/page/4/index.html
@@ -48,7 +48,7 @@
       <link rel="stylesheet" href="https://cdnjs.cloudflare.com/ajax/libs/fancybox/3.3.5/jquery.fancybox.min.css" />
       
       
-      <link rel="stylesheet" href="/css/main.min.27b618377603ce5859ee8c77a8f18977d019e93b79d4f1864f18fe5c06b8903a.css" integrity="sha256-J7YYN3YDzlhZ7ox3qPGJd9AZ6Tt51PGGTxj&#43;XAa4kDo=">
+      <link rel="stylesheet" href="/css/main.min.eb65ee0dac548aa7f699f2286e6c4195cce40c7bebc7a41d40df6795594ea13a.css" integrity="sha256-62XuDaxUiqf2mfIobmxBlczkDHvrx6QdQN9nlVlOoTo=">
       <link rel="stylesheet" href="/css/add-on.css">
     
   

diff --git a/index.html b/index.html
@@ -48,7 +48,7 @@
       <link rel="stylesheet" href="https://cdnjs.cloudflare.com/ajax/libs/fancybox/3.3.5/jquery.fancybox.min.css" />
       
       
-      <link rel="stylesheet" href="/css/main.min.27b618377603ce5859ee8c77a8f18977d019e93b79d4f1864f18fe5c06b8903a.css" integrity="sha256-J7YYN3YDzlhZ7ox3qPGJd9AZ6Tt51PGGTxj&#43;XAa4kDo=">
+      <link rel="stylesheet" href="/css/main.min.eb65ee0dac548aa7f699f2286e6c4195cce40c7bebc7a41d40df6795594ea13a.css" integrity="sha256-62XuDaxUiqf2mfIobmxBlczkDHvrx6QdQN9nlVlOoTo=">
       <link rel="stylesheet" href="/css/add-on.css">
     
   

diff --git a/news/index.html b/news/index.html
@@ -47,7 +47,7 @@
       <link rel="stylesheet" href="https://cdnjs.cloudflare.com/ajax/libs/fancybox/3.3.5/jquery.fancybox.min.css" />
       
       
-      <link rel="stylesheet" href="/css/main.min.27b618377603ce5859ee8c77a8f18977d019e93b79d4f1864f18fe5c06b8903a.css" integrity="sha256-J7YYN3YDzlhZ7ox3qPGJd9AZ6Tt51PGGTxj&#43;XAa4kDo=">
+      <link rel="stylesheet" href="/css/main.min.eb65ee0dac548aa7f699f2286e6c4195cce40c7bebc7a41d40df6795594ea13a.css" integrity="sha256-62XuDaxUiqf2mfIobmxBlczkDHvrx6QdQN9nlVlOoTo=">
       <link rel="stylesheet" href="/css/add-on.css">
     
   

diff --git a/page/2/index.html b/page/2/index.html
@@ -48,7 +48,7 @@
       <link rel="stylesheet" href="https://cdnjs.cloudflare.com/ajax/libs/fancybox/3.3.5/jquery.fancybox.min.css" />
       
       
-      <link rel="stylesheet" href="/css/main.min.27b618377603ce5859ee8c77a8f18977d019e93b79d4f1864f18fe5c06b8903a.css" integrity="sha256-J7YYN3YDzlhZ7ox3qPGJd9AZ6Tt51PGGTxj&#43;XAa4kDo=">
+      <link rel="stylesheet" href="/css/main.min.eb65ee0dac548aa7f699f2286e6c4195cce40c7bebc7a41d40df6795594ea13a.css" integrity="sha256-62XuDaxUiqf2mfIobmxBlczkDHvrx6QdQN9nlVlOoTo=">
       <link rel="stylesheet" href="/css/add-on.css">
     
   
